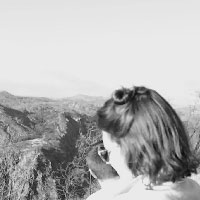
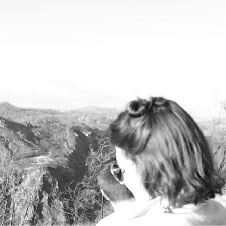
updated 500px breakpoint

diff --git a/landing_page_style.css b/landing_page_style.css
@@ -60,7 +60,6 @@ li{
 .container {
 	margin: auto;
 	max-width: 675px;
-	min-width: 300px;
 	padding-top: 50px;
 
 }
@@ -87,7 +86,7 @@ li{
 }
 
 .intro {
-	background-color: #fffffa; 
+	background-color: #fafafa; 
 	padding-top: 2%;
 	padding-bottom: 4%;
 }
@@ -128,15 +127,61 @@ a:active {
 }
 
 @media (max-width: 550px) {
-	.container {
-	margin-left: 5%;
-	max-width: 800px;
-}
-	.img_hero {
-	background-position: 10px 0px;	
+
+	body{
+	font-size: 15px;
 }
 
-.intro {
-	margin-left: 15%;
-	max-width: 400px;
+	h1{
+	font-size:2.441em;
+}
+	h2{
+	font-size:1.953em;
+}
+	h3{
+	font-size:1.563em;
+	padding-top: 15px;
+}
+	h4{
+	font-size:1.25em;
+}
+	p{
+	margin-top: 8px;
+	margin-bottom: 4px;
+}
+
+	.container {
+	margin: auto;
+	max-width: 100%;
+	padding-top: 25px;
+}
+	.img_hero {
+	background-image:url("images/km_500.jpg");
+	background-position: 50% 86%;
+	width: 100%;
+}
+
+	.resume{
+	margin-left: 4.5%;
+	max-width: 100%;
+
+}
+	.shape {
+	width: 500px;
+	top: 91%;
+	left: 4.5%;
+	position: absolute;
+}
+	.intro {
+	max-width: 100%;
+	padding-bottom: 55%;
+
+}
+	.intro_text{
+	margin-left: 4.5%;
+	max-width: 90%;	
+}
+	.item {
+	max-width: 90%;
+
 }

diff --git a/landing_page_index.html b/landing_page_index.html
@@ -46,6 +46,15 @@
 						<h4>American Eagle Outfitters</h4>
 							<p>Updated and maintained creative on website and blog, including section images, fit and look guides, promos, and emails</p>
 					</div>	
+				<h3><b>Education<b></h3>
+					<div class="item">
+						<h4><b>Carnegie Mellon University</b></h4>
+						<h4>Communication Design, BFA</h4>
+					</div>
+					<div class="item">
+						<h4><b>Grafik Fachklasse Sankt Gallen</b><h4>
+						<h4>CMU-Sponsored Exchanged</h4>
+					</div>
 				<h3><b>Skills</b></h3>
 						<p>Creative Suite</p>
 						<p>After Effects</p>
@@ -59,11 +68,6 @@
 						<p>Storyboarding</p>
 						<p>User Testing</p>
 						<p>Keynote</p>
-				<h3><b>Education<b></h3>
-					<h4><b>Carnegie Mellon University</b></h4>
-					<h4>Communication Design, BFA</h4>
-					<h4><b>Grafik Fachklasse Sankt Gallen</b><h4>
-					<h4>CMU-Sponsored Exchanged</h4>
 				</div>
 		</div>
 	</body>
